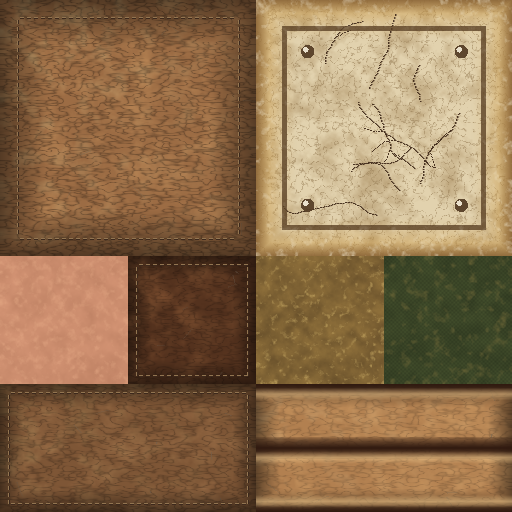
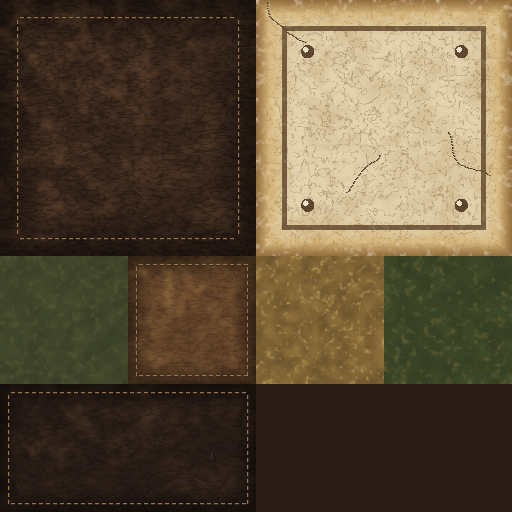
feat(arte): luvas do Arqueiro com pontas de dedo arredondadas e textura mais escura
Dedos com domo na ponta, pano verde nas pontas, osso menos rachado; remove nervura e tira de pano da braçadeira para caber no teto (1.384 tris).

diff --git a/art-src/personagens/arqueiro/luvas_geo.py b/art-src/personagens/arqueiro/luvas_geo.py
@@ -68,7 +68,7 @@ def frames(pts, hint):
     return T, N, B
 
 
-def tubo(P, pts, rad, lados, z, hint, cap0=True, cap1=True, fase=0.0):
+def tubo(P, pts, rad, lados, z, hint, cap0=True, cap1=True, fase=0.0, domo=False):
     """Varredura de secao elipse (rN, rB) ao longo de pts. rad: lista de float ou (rN, rB)."""
     pts = [Vector(p) for p in pts]
     T, N, B = frames(pts, hint)
@@ -89,6 +89,20 @@ def tubo(P, pts, rad, lados, z, hint, cap0=True, cap1=True, fase=0.0):
             va = v0 + (v1 - v0) * i / (n - 1); vb = v0 + (v1 - v0) * (i + 1) / (n - 1)
             P.face([ids[i][j], ids[i][j2], ids[i + 1][j2], ids[i + 1][j]], [(uu0, va), (uu1, va), (uu1, vb), (uu0, vb)])
     cu, cv = (u0 + u1) / 2, (v0 + v1) / 2
+    if domo and cap1:  # ponta arredondada: 1 anel reduzido + polo (em vez de tampa chata)
+        r = rad[n - 1]; rn, rb = (r, r) if not isinstance(r, tuple) else r
+        pe = pts[n - 1] + T[n - 1] * (0.5 * min(rn, rb))
+        ring = []
+        for j in range(lados):
+            a = 2 * math.pi * j / lados + fase
+            ring.append(P.vert(pe + N[n - 1] * (math.cos(a) * rn * 0.72) + B[n - 1] * (math.sin(a) * rb * 0.72)))
+        pole = P.vert(pts[n - 1] + T[n - 1] * (0.95 * min(rn, rb)))
+        for j in range(lados):
+            j2 = (j + 1) % lados
+            uu0 = u0 + (u1 - u0) * j / lados; uu1 = u0 + (u1 - u0) * (j + 1) / lados
+            P.face([ids[n - 1][j], ids[n - 1][j2], ring[j2], ring[j]], [(uu0, v1), (uu1, v1), (uu1, v1), (uu0, v1)])
+            P.face([ring[j], ring[j2], pole], [(uu0, v1), (uu1, v1), (cu, v1)])
+        cap1 = False
     for flag, i, rev in ((cap0, 0, True), (cap1, n - 1, False)):
         if not flag:
             continue
@@ -201,7 +215,7 @@ def dedo_arco(S, G, phi0, comp, R, zh, rho, sinal, cortes=0.72, lados=5, hint=(0
     couro = [pt(f) for f in fr]
     tubo(S["soft_H"], couro, [(rho * 0.93, rho), (rho * 0.95, rho * 1.0), (rho * 0.95, rho * 1.06)], lados, "couro", (0, 0, 1), cap0=False, cap1=True)
     pele = [pt(f) for f in (cortes, 1.0)]
-    tubo(S["soft_H"], pele, [(rho * 0.86, rho * 0.9), (rho * 0.7, rho * 0.72)], lados, "pele", (0, 0, 1), cap0=False, cap1=True)
+    tubo(S["soft_H"], pele, [(rho * 0.93, rho * 0.97), (rho * 0.78, rho * 0.8)], lados, "pele", (0, 0, 1), cap0=False, cap1=True, domo=True)
 
 
 def dedo_livre(S, base, u, n, comp, th, rho, cortes=0.72, lados=5):
@@ -214,7 +228,7 @@ def dedo_livre(S, base, u, n, comp, th, rho, cortes=0.72, lados=5):
     # ponto de corte: 'cortes' do comprimento total, dentro do 2o/3o segmento
     pm = p[2] + (p[3] - p[2]) * 0.1
     tubo(S["soft_H"], [p[0], p[1], pm], [(rho, rho), (rho * 1.0, rho), (rho * 1.05, rho * 1.05)], lados, "couro", n, cap0=False, cap1=True)
-    tubo(S["soft_H"], [pm, p[2], p[3]], [(rho * 0.88, rho * 0.88), (rho * 0.84, rho * 0.84), (rho * 0.7, rho * 0.7)], lados, "pele", n, cap0=False, cap1=True)
+    tubo(S["soft_H"], [pm, p[2], p[3]], [(rho * 0.94, rho * 0.94), (rho * 0.9, rho * 0.9), (rho * 0.78, rho * 0.78)], lados, "pele", n, cap0=False, cap1=True, domo=True)
     return p
 
 
@@ -247,9 +261,6 @@ def construir(W, E, lado):
                    ck=[0.4, 1.0, 1.0, 0.4], flip=flip)
     placa(L * 0.07, L * 0.40, 0.0385, 0.0365, 0.0105, 96)
     placa(L * 0.53, L * 0.79, 0.0365, 0.0355, 0.0095, 96, flip=True)
-    # nervura central elevada na placa de cima
-    placa_arco(S["hard_L"], [at(d) for d in (L * 0.12, L * 0.135, L * 0.335, L * 0.35)], ax, out,
-               [0.049, 0.049, 0.0475, 0.0475], [0.0075] * 4, 24, 2, "osso", ck=[0.4, 1.0, 1.0, 0.4])
     for d, tam in ((L * 0.20, 0.022), (L * 0.31, 0.017)):
         cone(S["soft_L"], at(d) + out * 0.0555, out * 1.0 - ax * 0.45, 0.0068, tam, 4, "osso")
     # cintas de couro (elipse justa: por fora da placa e rente ao braço no lado aberto) + fivela
@@ -257,8 +268,6 @@ def construir(W, E, lado):
         cen = out * (rr - 0.0405) / 1.0
         anel(S["soft_L"], at(d - 0.0065) + cen, at(d + 0.0065) + cen, (rr + 0.037) / 2 + 0.001, 0.043, 8, "cinta", out)
     caixa(S["hard_L"], at(L * 0.465) + out * 0.0505, side, ax, out, (0.0085, 0.0075, 0.0035), "metal")
-    # tira de pano verde por baixo, aparece no lado aberto
-    tubo(S["soft_L"], [at(L * 0.10), at(L * 0.56)], [0.0345, 0.033], 6, "pano", out, cap0=False, cap1=False)
     return S, ax, out, side, L
 
 
@@ -319,7 +328,7 @@ def mao_direita(S, W, ax):
     p0 = base; p1 = p0 + d1 * 0.030; p2 = p1 + d2 * 0.028; p3 = p2 + (u * 0.3 + n * 0.95).normalized() * 0.022
     pm = p2 + (p3 - p2) * 0.2
     tubo(S["soft_H"], [p0, p1, pm], [(0.0128, 0.0128), (0.0128, 0.0128), (0.0136, 0.0136)], 5, "couro", n, cap0=False, cap1=True)
-    tubo(S["soft_H"], [pm, p2, p3], [(0.0112, 0.0112), (0.0106, 0.0106), (0.0088, 0.0088)], 5, "pele", n, cap0=False, cap1=True)
+    tubo(S["soft_H"], [pm, p2, p3], [(0.0112, 0.0112), (0.0106, 0.0106), (0.0088, 0.0088)], 5, "pele", n, cap0=False, cap1=True, domo=True)
     K = 1.16
     for Pt, i0 in ((S["soft_H"], n0), (S["hard_H"], h0)):
         for i in range(i0, len(Pt.v)):

diff --git a/art-src/personagens/arqueiro/luvas_tex.py b/art-src/personagens/arqueiro/luvas_tex.py
@@ -89,7 +89,7 @@ def osso(w, h):
     ivory = cor((226, 210, 174))
     a = ruido(h, w, 30) * 0.6 + ruido(h, w, 8) * 0.4
     img = np.zeros((h, w, 3)) + ivory
-    img = mistura(img, (170, 142, 98), np.clip((a - 0.4) * 2.0, 0, 1) * 0.85)       # manchas ocre
+    img = mistura(img, (190, 160, 112), np.clip((a - 0.4) * 2.0, 0, 1) * 0.6)       # manchas ocre
     veio = np.clip(1 - np.abs(ruido(h, w, 6, 3) - 0.5) * 14, 0, 1) ** 2             # veios de osso
     img = mistura(img, (150, 124, 84), veio * 0.6)
     yy, xx = np.mgrid[0:h, 0:w]
@@ -110,7 +110,7 @@ def osso(w, h):
                 img[yi, xi + 1] = img[yi, xi + 1] * 0.5 + cor((74, 52, 34)) * 0.5
             if rng.random() < 0.03 and n - t > 14:
                 rach(x, y, ang + rng.choice([-1, 1]) * 0.55, (n - t) // 2, False)
-    for _ in range(9):
+    for _ in range(3):
         rach(rng.uniform(0, w), rng.uniform(0, h), rng.uniform(0, 6.28), int(rng.integers(25, 70)), True)
     # sulco gravado a 11% da borda + rebites nos cantos
     sul = np.abs(np.minimum.reduce([xx, w - 1 - xx, yy, h - 1 - yy]) - 0.11 * min(w, h)) < 2.4
@@ -128,9 +128,9 @@ def osso(w, h):
 
 def pele(w, h):
     a = ruido(h, w, 12)
-    img = np.zeros((h, w, 3)) + cor((158, 112, 84))
-    img = mistura(img, (118, 78, 58), a * 0.6)
-    img = mistura(img, (184, 136, 104), np.clip(ruido(h, w, 5) - 0.5, 0, 1) * 1.0)
+    img = np.zeros((h, w, 3)) + cor((70, 76, 46))
+    img = mistura(img, (46, 52, 32), a * 0.6)
+    img = mistura(img, (104, 102, 62), np.clip(ruido(h, w, 5) - 0.5, 0, 1) * 1.0)
     return img
 
 
